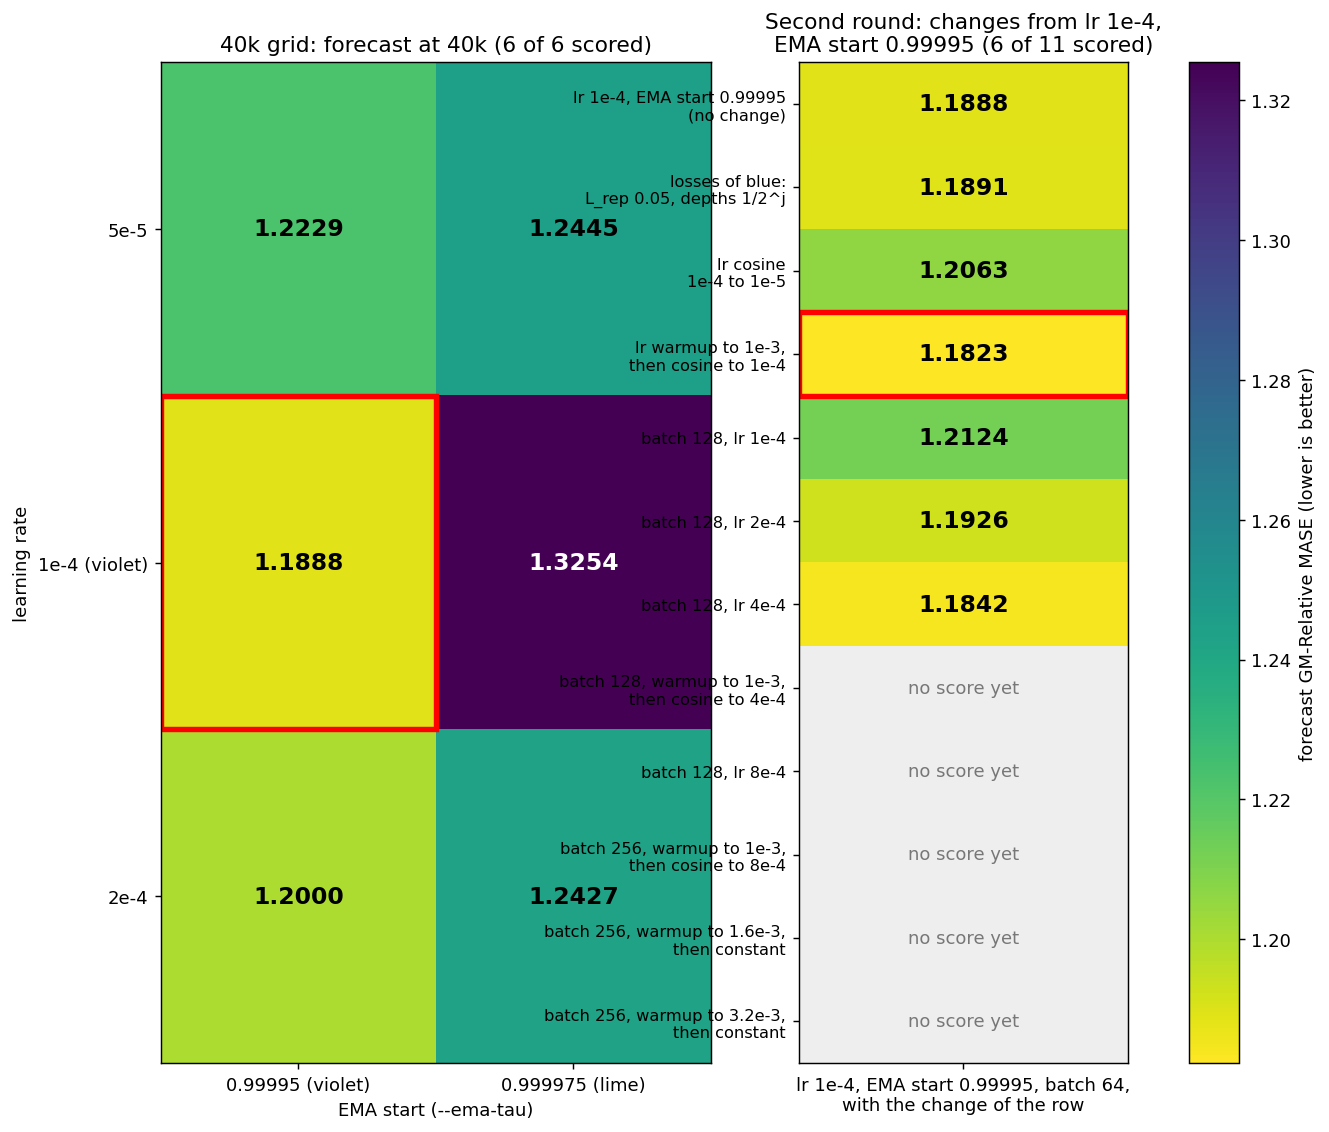
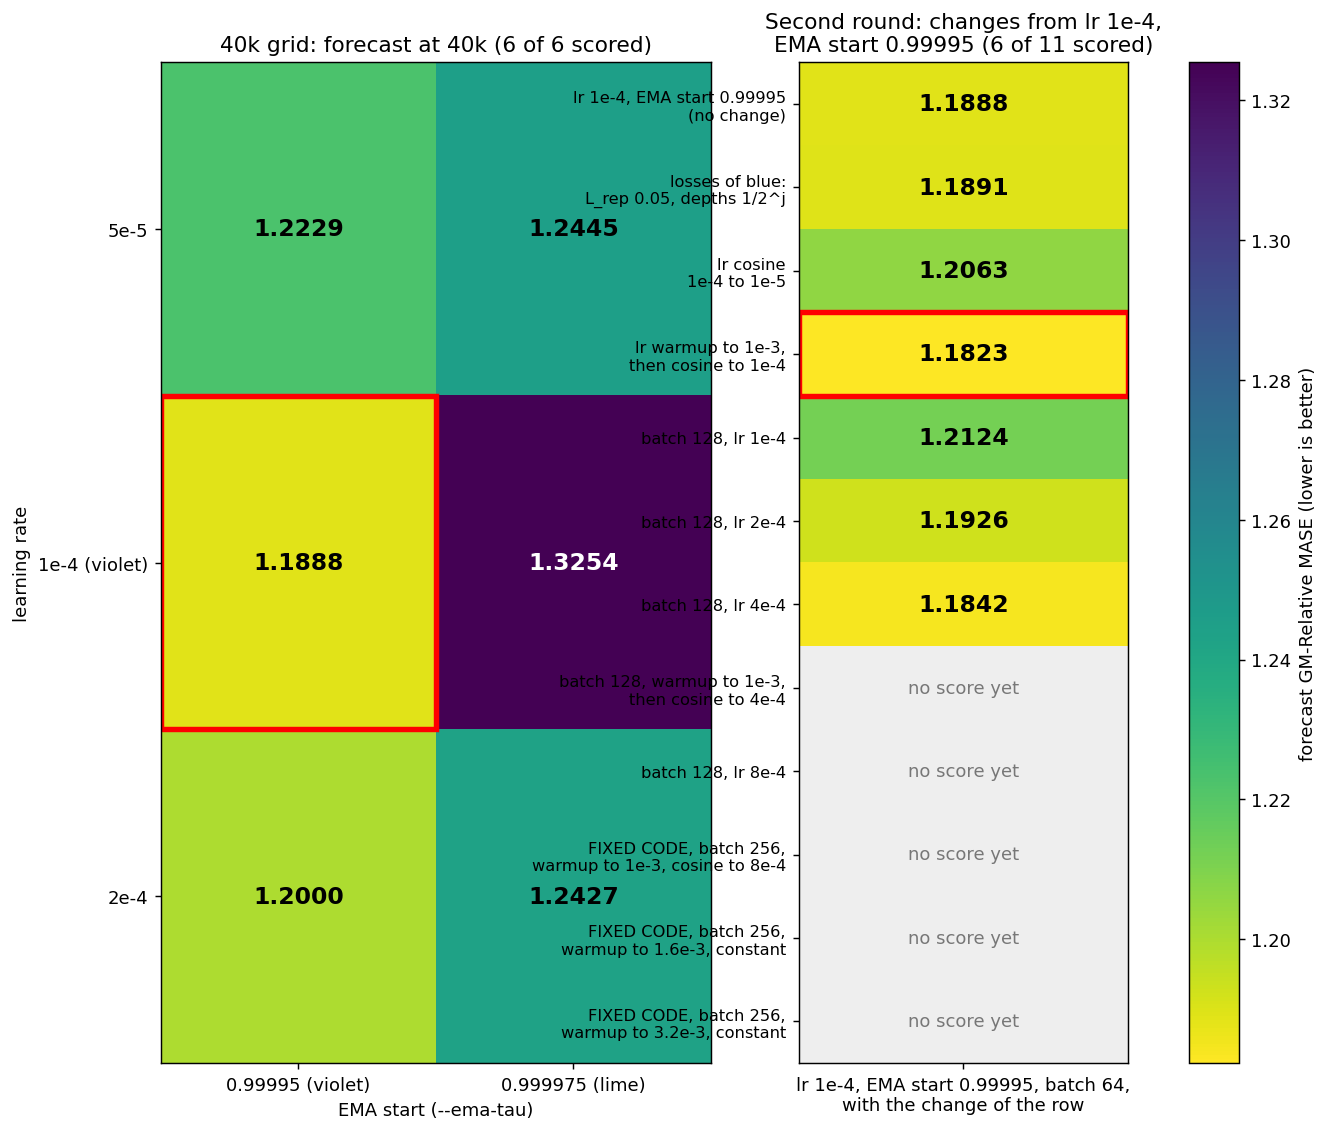
freq_family report: the batch-256 runs of the 40k grid on the fixed code (normalised rollout feedback, SIGReg window 6/sigma), as the _fx runs

Changed region(s): [[0.4011, 0.8039, 0.5862, 0.8657], [0.4011, 0.8966, 0.5862, 0.9276], [0.4011, 0.742, 0.5862, 0.773]]

diff --git a/reports/2026-10-10_frequency_family_head/scripts/plot_grid40k.py b/reports/2026-10-10_frequency_family_head/scripts/plot_grid40k.py
@@ -9,7 +9,10 @@ The second round (the user, 11-02 and 11-03): runs from the cell lr 1e-4,
 EMA start 0.99995, each with one change (the losses of blue or an lr
 schedule); batch 128 at the lr 1e-4, 2e-4, 4e-4 and 8e-4, and with the warmup
 of W and a cosine to 4e-4; batch 256 with a warmup to 1e-3, 1.6e-3 or 3.2e-3
-(around the projected lr 1.6e-3). Its panel has that cell as its first row.
+(around the projected lr 1.6e-3) on the FIXED CODE (the user, 11-03: the
+normalised rollout feedback in training and scoring, #446 and #447, and the
+SIGReg window 6/sigma, #438): the _fx runs. Its panel has that cell as its
+first row.
 
 Each cell is the forecast GM-Relative MASE of head B4 at 40k (30k head steps,
 97 configs). Lower is better. A grey cell has no score yet.
@@ -52,19 +55,19 @@ ROUND2 = {BEST: ("lr 1e-4, EMA start 0.99995\n(no change)", "1e-4"),
           "g40w_lr1em3_wu4k_cos4em4_bs128": ("batch 128, warmup to 1e-3,\nthen cosine to 4e-4",
                                              "warmup to 1e-3, cosine to 4e-4"),
           "g40b_lr8em4_tau99995_bs128": ("batch 128, lr 8e-4", "8e-4"),
-          "g40w_lr1em3_wu4k_cos8em4_bs256": ("batch 256, warmup to 1e-3,\nthen cosine to 8e-4",
-                                             "warmup to 1e-3, cosine to 8e-4"),
-          "g40w_lr1p6em3_wu4k_bs256": ("batch 256, warmup to 1.6e-3,\nthen constant",
-                                       "warmup to 1.6e-3, constant"),
-          "g40w_lr3p2em3_wu4k_bs256": ("batch 256, warmup to 3.2e-3,\nthen constant",
-                                       "warmup to 3.2e-3, constant")}
+          "g40w_lr1em3_wu4k_cos8em4_bs256_fx": ("FIXED CODE, batch 256,\nwarmup to 1e-3, cosine to 8e-4",
+                                                "warmup to 1e-3, cosine to 8e-4"),
+          "g40w_lr1p6em3_wu4k_bs256_fx": ("FIXED CODE, batch 256,\nwarmup to 1.6e-3, constant",
+                                          "warmup to 1.6e-3, constant"),
+          "g40w_lr3p2em3_wu4k_bs256_fx": ("FIXED CODE, batch 256,\nwarmup to 3.2e-3, constant",
+                                          "warmup to 3.2e-3, constant")}
 # run -> its colour in the radar and in the training figure of the second round
 ROUND2_COLOURS = {BEST: "#d95f02", "g40b_lr1em4_tau99995_rep005h": "#1f77b4",
                   "g40c_lr1em4_tau99995_cos": "#e7298a", "g40w_lr1em3_wu4k_cos": "#66a61e",
                   "g40b_lr1em4_tau99995_bs128": "#bcbd22", "g40b_lr2em4_tau99995_bs128": "#17becf",
                   "g40b_lr4em4_tau99995_bs128": "#8c564b", "g40w_lr1em3_wu4k_cos4em4_bs128": "#d62728",
-                  "g40b_lr8em4_tau99995_bs128": "#6a3d9a", "g40w_lr1em3_wu4k_cos8em4_bs256": "#e6ab02",
-                  "g40w_lr1p6em3_wu4k_bs256": "#000000", "g40w_lr3p2em3_wu4k_bs256": "#7f7f7f"}
+                  "g40b_lr8em4_tau99995_bs128": "#6a3d9a", "g40w_lr1em3_wu4k_cos8em4_bs256_fx": "#e6ab02",
+                  "g40w_lr1p6em3_wu4k_bs256_fx": "#000000", "g40w_lr3p2em3_wu4k_bs256_fx": "#7f7f7f"}
 
 
 def run_score(run):

diff --git a/reports/2026-10-10_frequency_family_head/scripts/plot_grid40k_round2.py b/reports/2026-10-10_frequency_family_head/scripts/plot_grid40k_round2.py
@@ -52,12 +52,12 @@ RUNS = {
     "g40w_lr1em3_wu4k_cos4em4_bs128": ("A: batch 128, warmup to 1e-3 over 4k, cosine to 4e-4",
                                        (1e-3, 4e-4, STEPS, 4000), False),
     "g40b_lr8em4_tau99995_bs128": ("batch 128, lr 8e-4", (8e-4, 8e-4, STEPS, 0), False),
-    "g40w_lr1em3_wu4k_cos8em4_bs256": ("batch 256, warmup to 1e-3 over 4k, cosine to 8e-4",
-                                       (1e-3, 8e-4, STEPS, 4000), False),
-    "g40w_lr1p6em3_wu4k_bs256": ("batch 256, warmup to 1.6e-3 over 4k, then constant",
-                                 (1.6e-3, 1.6e-3, STEPS, 4000), False),
-    "g40w_lr3p2em3_wu4k_bs256": ("batch 256, warmup to 3.2e-3 over 4k, then constant",
-                                 (3.2e-3, 3.2e-3, STEPS, 4000), False),
+    "g40w_lr1em3_wu4k_cos8em4_bs256_fx": ("FIXED CODE, batch 256, warmup to 1e-3 over 4k, cosine to 8e-4",
+                                          (1e-3, 8e-4, STEPS, 4000), False),
+    "g40w_lr1p6em3_wu4k_bs256_fx": ("FIXED CODE, batch 256, warmup to 1.6e-3 over 4k, then constant",
+                                    (1.6e-3, 1.6e-3, STEPS, 4000), False),
+    "g40w_lr3p2em3_wu4k_bs256_fx": ("FIXED CODE, batch 256, warmup to 3.2e-3 over 4k, then constant",
+                                    (3.2e-3, 3.2e-3, STEPS, 4000), False),
 }
 
 
